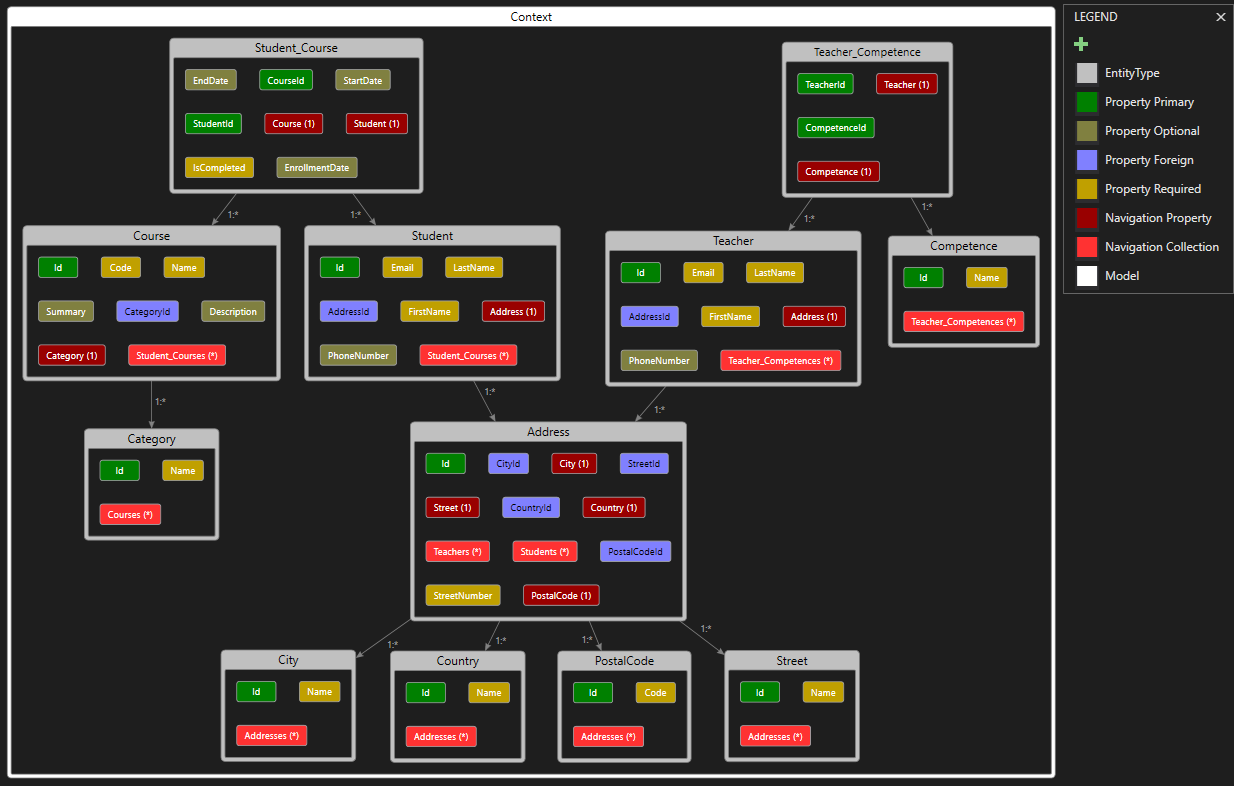
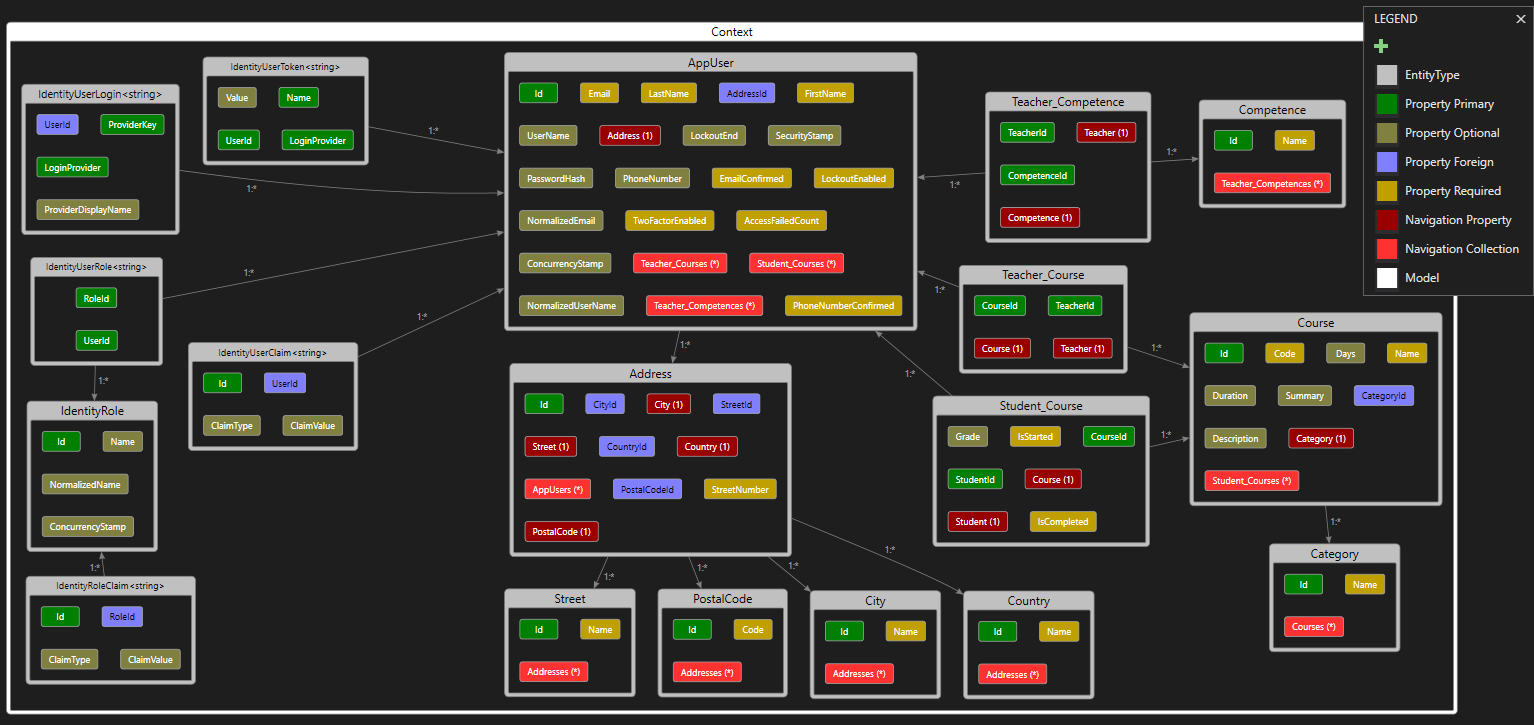
Fixed bad models and implemented Identity

diff --git a/Data/Context.cs b/Data/Context.cs
@@ -1,9 +1,10 @@
+using Microsoft.AspNetCore.Identity.EntityFrameworkCore;
 using Microsoft.EntityFrameworkCore;
 using WestcoastEducationApi.Models;
 
 namespace WestcoastEducationApi.Data;
 
-public class Context : DbContext
+public class Context : IdentityDbContext<AppUser>
 {
     public DbSet<Address> Addresses => Set<Address>();
     public DbSet<Category> Categories => Set<Category>();
@@ -13,8 +14,7 @@ public class Context : DbContext
     public DbSet<Course> Courses => Set<Course>();
     public DbSet<PostalCode> PostalCodes => Set<PostalCode>();
     public DbSet<Street> Streets => Set<Street>();
-    public DbSet<Student> Students => Set<Student>();
-    public DbSet<Teacher> Teachers => Set<Teacher>();
+    public DbSet<AppUser> AppUsers => Set<AppUser>();
     public DbSet<Student_Course> Student_Courses => Set<Student_Course>();
     public DbSet<Teacher_Competence> Teacher_Competences => Set<Teacher_Competence>();
     
@@ -25,10 +25,19 @@ public class Context : DbContext
     
     protected override void OnModelCreating(ModelBuilder modelBuilder)
     {
+        base.OnModelCreating(modelBuilder);
+        
         modelBuilder.Entity<Student_Course>()
             .HasKey(sc => new { sc.StudentId, sc.CourseId });
         
+        modelBuilder.Entity<Teacher_Course>()
+            .HasKey(sc => new { sc.TeacherId, sc.CourseId });
+        
         modelBuilder.Entity<Teacher_Competence>()
             .HasKey(tc => new { tc.TeacherId, tc.CompetenceId });
+        
+        modelBuilder.Entity<AppUser>()
+            .Property(a => a.Email)
+            .IsRequired();
     }
 }

diff --git a/Models/AppUser.cs b/Models/AppUser.cs
@@ -1,10 +1,11 @@
 using System.ComponentModel.DataAnnotations;
+using Microsoft.AspNetCore.Identity;
 
 namespace WestcoastEducationApi.Models;
 
-public class Student
+public class AppUser : IdentityUser
 {
-    public int Id { get; set; }
+    // Ärvda: Id, Email, PhoneNumber
 
     [Required]
     public string? FirstName { get; set; }
@@ -12,17 +13,14 @@ public class Student
     [Required]
     public string? LastName { get; set; }
 
-    [Required]
-    [EmailAddress]
-    public string? Email { get; set; }
-
-    [Phone]    
-    public string? PhoneNumber { get; set; }
-    
     public Address? Address { get; set; }
     public int AddressId { get; set; }
 
 
 
     public ICollection<Student_Course> Student_Courses { get; set; } = new List<Student_Course>();
+    
+    public ICollection<Teacher_Course> Teacher_Courses { get; set; } = new List<Teacher_Course>();
+    
+    public ICollection<Teacher_Competence> Teacher_Competences { get; set; } = new List<Teacher_Competence>();
 }

diff --git a/Models/Student_Course.cs b/Models/Student_Course.cs
@@ -1,14 +1,19 @@
+using System.ComponentModel.DataAnnotations.Schema;
+
 namespace WestcoastEducationApi.Models;
 
 public class Student_Course
 {
-    public Student? Student { get; set; }
-    public int StudentId { get; set; }
+    [ForeignKey("StudentId")]
+    public AppUser? Student { get; set; }
+    public string? StudentId { get; set; }
+    
     public Course? Course { get; set; }
     public int CourseId { get; set; }
     
-    public DateTime? EnrollmentDate { get; set; }
-    public DateTime? StartDate { get; set; }
-    public DateTime? EndDate { get; set; }
+    
+    
+    public bool IsStarted { get; set; } = false;
     public bool IsCompleted { get; set; } = false;
+    public string? Grade { get; set; }
 }

diff --git a/Models/Teacher_Course.cs b/Models/Teacher_Course.cs
@@ -2,11 +2,12 @@ using System.ComponentModel.DataAnnotations.Schema;
 
 namespace WestcoastEducationApi.Models;
 
-public class Teacher_Competence
+public class Teacher_Course
 {
     [ForeignKey("TeacherId")]
     public AppUser? Teacher { get; set; }
     public string? TeacherId { get; set; }
-    public Competence? Competence { get; set; }
-    public int CompetenceId { get; set; }
+    
+    public Course? Course { get; set; }
+    public int CourseId { get; set; }
 }

diff --git a/Models/Course.cs b/Models/Course.cs
@@ -15,6 +15,10 @@ public class Course
     public string? Summary { get; set; }
     
     public string? Description { get; set; }
+    
+    public int? Days { get; set; }
+    
+    public TimeSpan? Duration { get; set; }
 
     public Category? Category { get; set; }
     public int CategoryId { get; set; }

diff --git a/Models/Address.cs b/Models/Address.cs
@@ -23,6 +23,5 @@ public class Address
     
     
     
-    public ICollection<Student> Students { get; set; } = new List<Student>();
-    public ICollection<Teacher> Teachers { get; set; } = new List<Teacher>();
+    public ICollection<AppUser> AppUsers { get; set; } = new List<AppUser>();
 }
